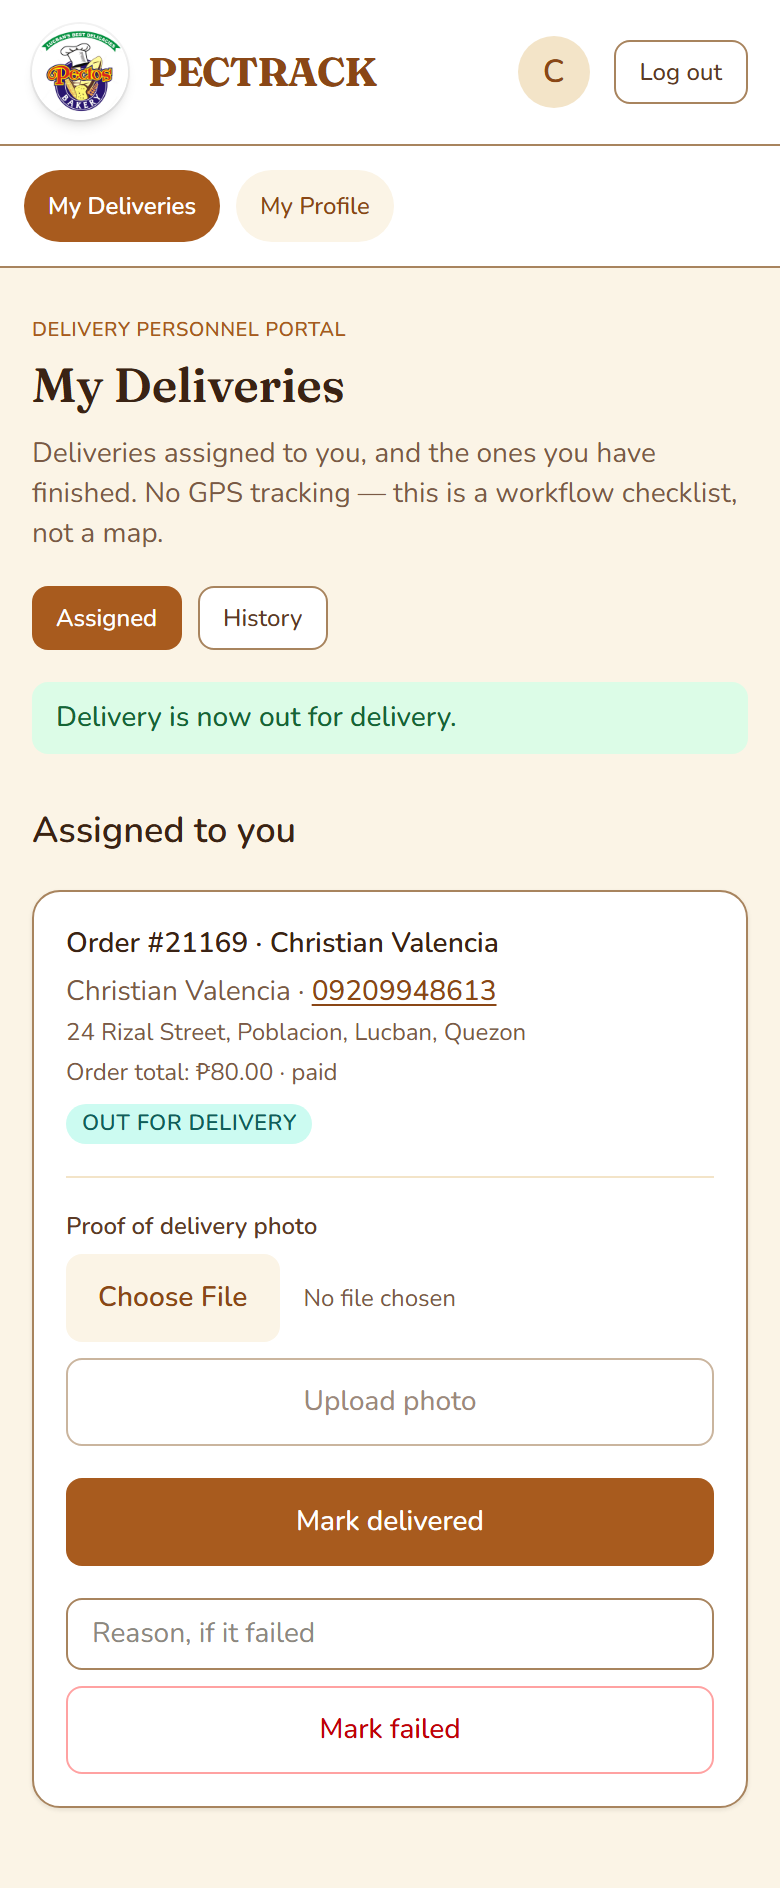
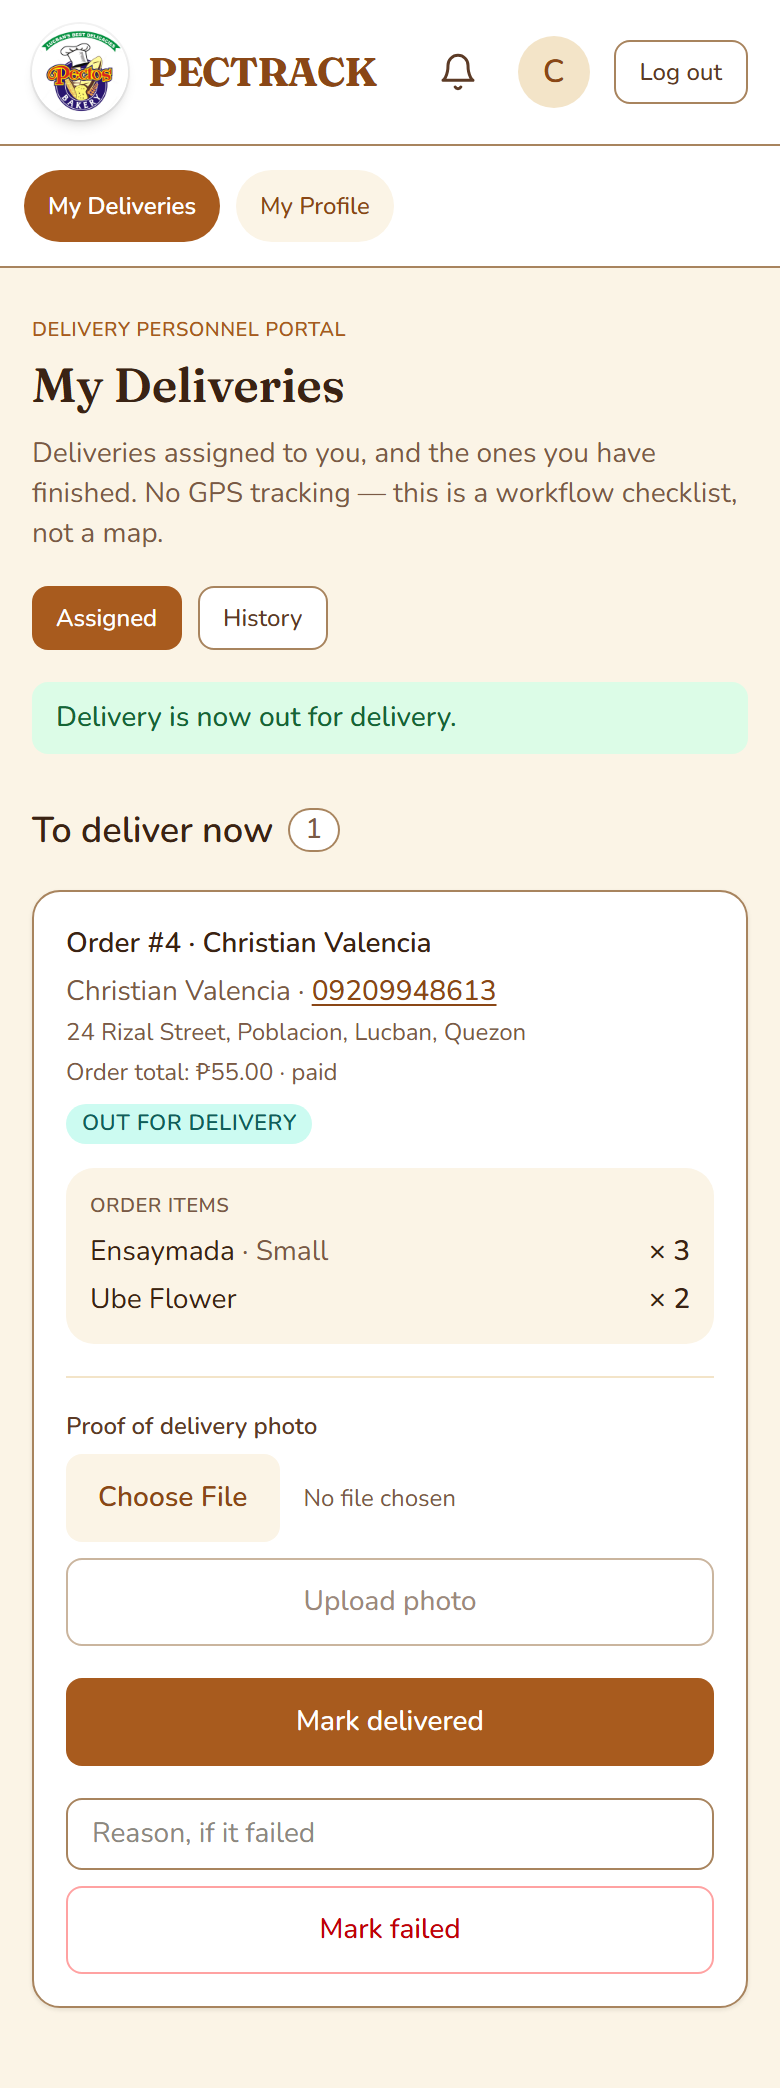
docs: retake the paper figures after the client revisions
All screenshots taken again from re-seeded demo data. PAPER_FIGURES.md
lists which ones changed and why, the new caption for Figure 11, and
three new optional figures: 2.3 new-order alert, 11.1 Ingredients,
16.2 the Inventory report with ingredients.

diff --git a/RULES-PLANS/PAPER_FIGURES.md b/RULES-PLANS/PAPER_FIGURES.md
@@ -26,6 +26,7 @@ For each figure:
 | 1.3 *(optional, new)* | `fig-01-login-staff.png` | Figure 1.3 Staff sign-in | B1, optional |
 | 2 | `fig-02-dashboard-admin.png` | Figure 2. Admin dashboard | B3 (done; shared with 2.1) |
 | 2.1 | `fig-02.1-dashboard-cashier.png` | Figure 2.1 Cashier dashboard | B3 (done; shared with 2) |
+| 2.3 *(optional, new)* | `fig-02.3-new-order-alert.png` | Figure 2.3 New-order alert | PAPER_FIX_REVISIONS R4 |
 | 2.2 | `fig-02.2-my-deliveries.png` | Figure 2.2 My Deliveries — delivery personnel's first screen | B3, Figure 2.2 (redo) |
 | 3 | `fig-03-customers-admin.png` | Figure 3. Customer Management (admin) | B4 |
 | 4 | `fig-04-customers-cashier.png` | Figure 4. Customer Management (cashier) | B4 |
@@ -41,7 +42,8 @@ For each figure:
 | 9 | `fig-09-menu.png` | Figure 9. Menu (customer) | B6 |
 | 10 | `fig-10-products-admin.png` | Figure 10. Product Management (admin) | B5 |
 | 10.1 *(optional, new)* | `fig-10.1-inventory-admin.png` | Figure 10.1 Inventory Management (admin) | B5, optional |
-| 11 | `fig-11-inventory-cashier.png` | Figure 11. Inventory Management — proposing a stock change (cashier) | B5 |
+| 11 | `fig-11-inventory-cashier.png` | Figure 11. Inventory Management — updating stock (cashier) | B5, then PAPER_FIX_REVISIONS R1 item 6 |
+| 11.1 *(new)* | `fig-11.1-ingredients-cashier.png` | Figure 11.1 Inventory Management — Ingredients | PAPER_FIX_REVISIONS R5 item 8 |
 | 12 | `fig-12-payments-admin.png` | Figure 12. Payment & Billing — payment log (admin) | B7 |
 | 13 | `fig-13-payments-cashier.png` | Figure 13. Payment & Billing — recording a payment (cashier) | B7 |
 | 14 | `fig-14-deliveries-admin.png` | Figure 14. Delivery Management (admin and cashier) | B7 |
@@ -50,6 +52,7 @@ For each figure:
 | 15.1 | `fig-15.1-checkout-pickup.png` | Figure 15.1 Checkout — pickup order (customer) | B7 |
 | 16 | `fig-16-reports-admin.png` | Figure 16. Reporting & Analytics — Sales (admin) | B9 |
 | 16.1 *(optional, new)* | `fig-16.1-forecast-admin.png` | Figure 16.1 Reporting & Analytics — Forecast | B9, optional |
+| 16.2 *(optional, new)* | `fig-16.2-reports-inventory.png` | Figure 16.2 Reporting & Analytics — Inventory, with ingredients | PAPER_FIX_REVISIONS R5 item 4 |
 | 17 | `fig-17-reports-cashier.png` | Figure 17. Reporting & Analytics — Transactions (cashier) | B9 |
 | 18 | `fig-18-delivery-history.png` | Figure 18. Delivery history (delivery personnel) | B9 |
 
@@ -66,3 +69,39 @@ The capture script lives outside the repo, in the session scratchpad
 (`browser/figures.mjs`). It signs in the demo accounts by inserting
 sessions directly in the database, so no sign-in codes are emailed. Ask
 Claude to rerun it after the demo data or the design changes.
+
+## Retake of 2026-10-15 (after the client's revisions)
+
+Every screenshot was taken again from the re-seeded demo data after
+revisions R1–R5 (`PAPER_FIX_REVISIONS.md`). Same sizes as before: 1440×900
+for desktop, 390×844 for the delivery personnel's phone.
+
+**Replace these in the paper** (Change Picture, as above). They changed
+because of the revisions:
+
+| Figure | Why it changed |
+|---|---|
+| 2, 2.1 | New Dashboard: "Needs action now", Recent orders, Ingredients tile (R3, R4, R5) |
+| 2.2 | Grouped "Assigned to you" / "To deliver now"; order items on the card (R1, R4) |
+| 5 | Daily order numbers (R4) |
+| 6, 7 | Daily order numbers (R4) |
+| 7.2 | Daily order numbers on Due today (R4) |
+| 8 | Order items on the card; "To deliver now" (R1, R4) |
+| 10.1 | Products / Ingredients tabs; no Expiry column (R3, R5) |
+| 11 | The cashier edits stock directly with a reason; no approval (R1, R3) — new caption above |
+| 12, 13 | Daily order numbers; no "Pay with GCash" for staff (R1, R4) |
+| 14 | Daily order numbers (R4) |
+| 16 | No Refunds card (R2) |
+| 17, 18 | Daily order numbers (R4) |
+
+**New figures** (add only if your team wants them): 2.3 new-order alert,
+11.1 Ingredients (recommended, since the paper now describes the
+ingredient stock), 16.2 the Inventory report with ingredients.
+
+**Unchanged in content:** 1, 1.1, 1.2, 3, 4, 5.1–5.3, 7.1, 9, 10, 15,
+15.1. Some of these files were rewritten with the new demo data (names,
+amounts), but they show nothing that the revisions changed, so the
+pictures already in the paper can stay.
+
+Remember to update the **List of Figures** for the new captions (11) and
+any new figures you add.
